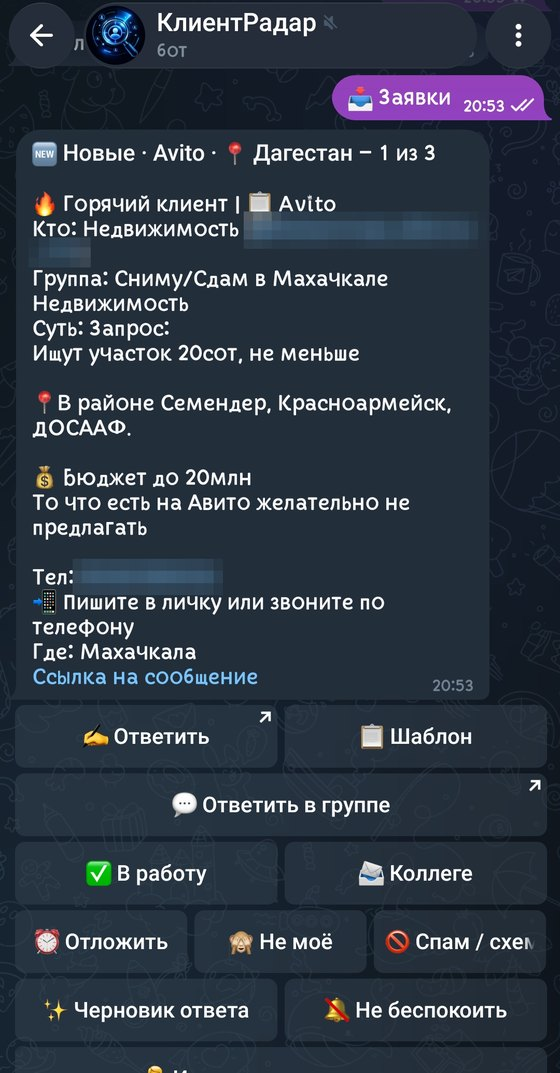
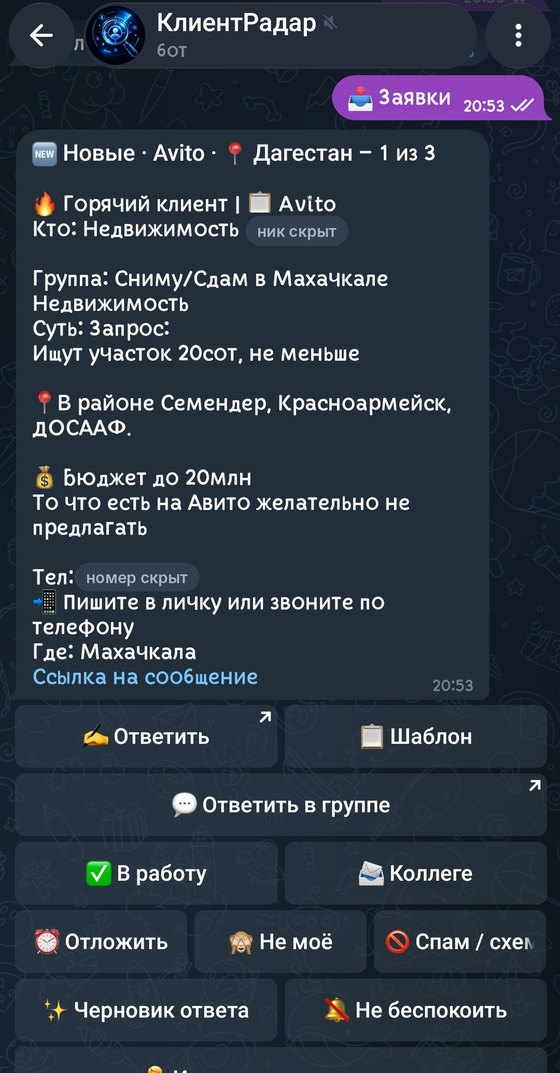
КлиентРадар: скриншоты без размытых пятен — «ник скрыт», «номер скрыт», строка статистики вырезана
Claude-Session: https://claude.ai/code/session_019N4sGgrMWWMMvw9nuPWSGe

Changed region(s): [[0.425, 0.1845, 0.85, 0.246], [0.1214, 0.5228, 0.3946, 0.5536], [0.0607, 0.2153, 0.1821, 0.246]]

diff --git a/bot-crm.html b/bot-crm.html
@@ -165,7 +165,7 @@
 </div></section><section id="features"><div class="wrap"><div class="sec-head rv"><div class="eyebrow">Возможности</div><h2>Что внутри</h2></div><div class="grid g4"><div class="card rv"><span class="ic"><svg viewBox="0 0 24 24" aria-hidden="true"><circle cx="11" cy="11" r="7"/><path d="M21 21l-4.3-4.3"/></svg></span><h3>75 готовых ниш</h3><p>И поиск ниши по слову. Выберите свою нишу и город — остальное бот сделает сам.</p></div><div class="card rv"><span class="ic"><svg viewBox="0 0 24 24" aria-hidden="true"><path d="M22 3H2l8 9.5V19l4 2v-8.5L22 3z"/></svg></span><h3>Без лишнего мусора</h3><p>Бот сам отсеивает рекламу мастеров, вакансии и спам.</p></div><div class="card rv"><span class="ic"><svg viewBox="0 0 24 24" aria-hidden="true"><path d="M12 22s8-4 8-10V5l-8-3-8 3v7c0 6 8 10 8 10z"/></svg></span><h3>Подсказка о возможной схеме</h3><p>Если в заявке просят предоплату, перевод, оплату в крипте, код из СМС или зовут на сторонний сайт, бот пишет «⚠ Осторожно, возможна схема» и называет причину. Это помогает заметить признаки обмана, но не гарантирует защиту.</p></div><div class="card rv"><span class="ic"><svg viewBox="0 0 24 24" aria-hidden="true"><path d="M8 6h13M8 12h13M8 18h13M3 6h.01M3 12h.01M3 18h.01"/></svg></span><h3>Заявки по одной</h3><p>Выберите нишу и место (Дагестан, Махачкала, Москва…) и листайте «Предыдущая / Следующая».</p></div><div class="card rv"><span class="ic"><svg viewBox="0 0 24 24" aria-hidden="true"><path d="M22 2L11 13M22 2l-7 20-4-9-9-4 20-7z"/></svg></span><h3>Ответ в один клик</h3><p>Скопируйте готовый текст с вашими ценами и ответьте в группе. Бот сам клиентам не пишет — пишете вы.</p></div><div class="card rv"><span class="ic"><svg viewBox="0 0 24 24" aria-hidden="true"><path d="M18 20V10M12 20V4M6 20v-6"/></svg></span><h3>Мини-CRM</h3><p>Этапы сделки, заметки и напоминания — чтобы не терять клиентов.</p></div><div class="card rv"><span class="ic"><svg viewBox="0 0 24 24" aria-hidden="true"><path d="M18 8a6 6 0 0 0-12 0c0 7-3 9-3 9h18s-3-2-3-9M13.7 21a2 2 0 0 1-3.4 0"/></svg></span><h3>«Не беспокоить» и «Тишина»</h3><p>Паузу на час, день или неделю можно включить в любой момент, а ночью бот молчит. Заявки не пропадают.</p></div><div class="card rv"><span class="ic"><svg viewBox="0 0 24 24" aria-hidden="true"><path d="M17 21v-2a4 4 0 0 0-4-4H5a4 4 0 0 0-4 4v2"/><circle cx="9" cy="7" r="4"/><path d="M23 21v-2a4 4 0 0 0-3-3.9M16 3.1a4 4 0 0 1 0 7.8"/></svg></span><h3>Приглашения</h3><p>Друг заходит по вашей ссылке — вам обоим +7 дней полного тарифа.</p></div><div class="card rv"><span class="ic"><svg viewBox="0 0 24 24" aria-hidden="true"><path d="M21 15a2 2 0 0 1-2 2H7l-4 4V5a2 2 0 0 1 2-2h14a2 2 0 0 1 2 2z"/></svg></span><h3>«Сообщить о проблеме»</h3><p>Кнопка прямо в боте: если что-то не так, напишите, и вам ответят.</p></div></div></div></section>
 <section id="screens"><div class="wrap">
 <div class="sec-head rv"><div class="eyebrow">Скриншоты</div><h2>Как выглядит бот</h2></div>
-<div class="shots"><figure class="shot rv"><div class="phone"><img src="assets/images/radar-card.jpg" alt="Скриншот бота КлиентРадар: карточка заявки" width="560" height="1073" loading="lazy"></div><figcaption><strong>Карточка заявки</strong>Кто ищет, что нужно, место и бюджет — и кнопки: ответить, шаблон, в работу, отложить.</figcaption></figure><figure class="shot rv"><div class="phone"><img src="assets/images/radar-onebyone.jpg" alt="Скриншот бота КлиентРадар: все кнопки под заявкой" width="560" height="552" loading="lazy"></div><figcaption><strong>Все кнопки под заявкой</strong>«Ответить в группе», «Черновик ответа», «Спам / схема», «Следующая» и выбор ниши и места.</figcaption></figure><figure class="shot rv"><div class="phone"><img src="assets/images/radar-tariff.jpg" alt="Скриншот бота КлиентРадар: тариф" width="560" height="1073" loading="lazy"></div><figcaption><strong>Тариф</strong>Цены 490 / 1290 / 3990 ₽ и оплата прямо в Telegram — картой или по СБП.</figcaption></figure><figure class="shot rv"><div class="phone phone-ph"><div class="ph-in"><span>Скриншот скоро</span></div></div><figcaption><strong>Рейтинг в закрепе группы</strong>Рейтинг заявок по нишам и кнопки ниш.</figcaption></figure><figure class="shot rv"><div class="phone"><img src="assets/images/radar-cabinet.jpg" alt="Скриншот бота КлиентРадар: кабинет в telegram" width="560" height="881" loading="lazy"></div><figcaption><strong>Кабинет в Telegram</strong>Заявки, клиенты, профиль и тариф в одном окне. Вход без пароля — по аккаунту Telegram.</figcaption></figure><figure class="shot rv"><div class="phone"><img src="assets/images/radar-start.jpg" alt="Скриншот бота КлиентРадар: знакомство с ботом" width="560" height="678" loading="lazy"></div><figcaption><strong>Знакомство с ботом</strong>Что умеет бот и кнопка «Запустить»: настройка — несколько касаний.</figcaption></figure><figure class="shot rv"><div class="phone"><img src="assets/images/radar-profile.jpg" alt="Скриншот бота КлиентРадар: автонастройка профиля" width="560" height="1068" loading="lazy"></div><figcaption><strong>Автонастройка профиля</strong>Бот сам подставит режим тишины и минус-слова, ниши выбираются касанием.</figcaption></figure><figure class="shot rv"><div class="phone"><img src="assets/images/radar-catalog.jpg" alt="Скриншот бота КлиентРадар: каталог групп" width="560" height="738" loading="lazy"></div><figcaption><strong>Каталог групп</strong>Добавьте свою группу: бонусные дни за заявки из неё, уровни и рейтинг.</figcaption></figure><figure class="shot rv"><div class="phone"><img src="assets/images/radar-stages.jpg" alt="Скриншот бота КлиентРадар: crm: этапы сделки" width="560" height="207" loading="lazy"></div><figcaption><strong>CRM: этапы сделки</strong>Новый, в переговорах, думает, оплата, выполнено, отказ — клиенты по этапам, поиск и добавление.</figcaption></figure><figure class="shot rv"><div class="phone"><img src="assets/images/radar-clients.jpg" alt="Скриншот бота КлиентРадар: crm в кабинете" width="560" height="519" loading="lazy"></div><figcaption><strong>CRM в кабинете</strong>Поиск по имени или @нику и этапы сделки в мини-приложении.</figcaption></figure><figure class="shot rv"><div class="phone"><img src="assets/images/radar-commands.jpg" alt="Скриншот бота КлиентРадар: меню команд" width="560" height="682" loading="lazy"></div><figcaption><strong>Меню команд</strong>Кабинет, заявки, CRM, каталог, условия оплаты, политика и удаление данных — всё под рукой.</figcaption></figure></div></div></section>
+<div class="shots"><figure class="shot rv"><div class="phone"><img src="assets/images/radar-card.jpg?v=2" alt="Скриншот бота КлиентРадар: карточка заявки" width="560" height="1073" loading="lazy"></div><figcaption><strong>Карточка заявки</strong>Кто ищет, что нужно, место и бюджет — и кнопки: ответить, шаблон, в работу, отложить.</figcaption></figure><figure class="shot rv"><div class="phone"><img src="assets/images/radar-onebyone.jpg" alt="Скриншот бота КлиентРадар: все кнопки под заявкой" width="560" height="552" loading="lazy"></div><figcaption><strong>Все кнопки под заявкой</strong>«Ответить в группе», «Черновик ответа», «Спам / схема», «Следующая» и выбор ниши и места.</figcaption></figure><figure class="shot rv"><div class="phone"><img src="assets/images/radar-tariff.jpg?v=2" alt="Скриншот бота КлиентРадар: тариф" width="560" height="1073" loading="lazy"></div><figcaption><strong>Тариф</strong>Цены 490 / 1290 / 3990 ₽ и оплата прямо в Telegram — картой или по СБП.</figcaption></figure><figure class="shot rv"><div class="phone phone-ph"><div class="ph-in"><span>Скриншот скоро</span></div></div><figcaption><strong>Рейтинг в закрепе группы</strong>Рейтинг заявок по нишам и кнопки ниш.</figcaption></figure><figure class="shot rv"><div class="phone"><img src="assets/images/radar-cabinet.jpg" alt="Скриншот бота КлиентРадар: кабинет в telegram" width="560" height="881" loading="lazy"></div><figcaption><strong>Кабинет в Telegram</strong>Заявки, клиенты, профиль и тариф в одном окне. Вход без пароля — по аккаунту Telegram.</figcaption></figure><figure class="shot rv"><div class="phone"><img src="assets/images/radar-start.jpg" alt="Скриншот бота КлиентРадар: знакомство с ботом" width="560" height="678" loading="lazy"></div><figcaption><strong>Знакомство с ботом</strong>Что умеет бот и кнопка «Запустить»: настройка — несколько касаний.</figcaption></figure><figure class="shot rv"><div class="phone"><img src="assets/images/radar-profile.jpg" alt="Скриншот бота КлиентРадар: автонастройка профиля" width="560" height="1068" loading="lazy"></div><figcaption><strong>Автонастройка профиля</strong>Бот сам подставит режим тишины и минус-слова, ниши выбираются касанием.</figcaption></figure><figure class="shot rv"><div class="phone"><img src="assets/images/radar-catalog.jpg" alt="Скриншот бота КлиентРадар: каталог групп" width="560" height="738" loading="lazy"></div><figcaption><strong>Каталог групп</strong>Добавьте свою группу: бонусные дни за заявки из неё, уровни и рейтинг.</figcaption></figure><figure class="shot rv"><div class="phone"><img src="assets/images/radar-stages.jpg" alt="Скриншот бота КлиентРадар: crm: этапы сделки" width="560" height="207" loading="lazy"></div><figcaption><strong>CRM: этапы сделки</strong>Новый, в переговорах, думает, оплата, выполнено, отказ — клиенты по этапам, поиск и добавление.</figcaption></figure><figure class="shot rv"><div class="phone"><img src="assets/images/radar-clients.jpg" alt="Скриншот бота КлиентРадар: crm в кабинете" width="560" height="519" loading="lazy"></div><figcaption><strong>CRM в кабинете</strong>Поиск по имени или @нику и этапы сделки в мини-приложении.</figcaption></figure><figure class="shot rv"><div class="phone"><img src="assets/images/radar-commands.jpg" alt="Скриншот бота КлиентРадар: меню команд" width="560" height="682" loading="lazy"></div><figcaption><strong>Меню команд</strong>Кабинет, заявки, CRM, каталог, условия оплаты, политика и удаление данных — всё под рукой.</figcaption></figure></div></div></section>
 <section id="cabinet"><div class="wrap"><div class="sec-head rv"><div class="eyebrow">Мини-приложение</div><h2>📱 Кабинет в Telegram</h2></div><div class="card rv" style="max-width:820px"><p style="font-size:16px">Заявки, клиенты, профиль, тариф, статистика и кредиты — в одном окне прямо в Telegram. Вход без пароля.</p></div></div></section>
 
 
